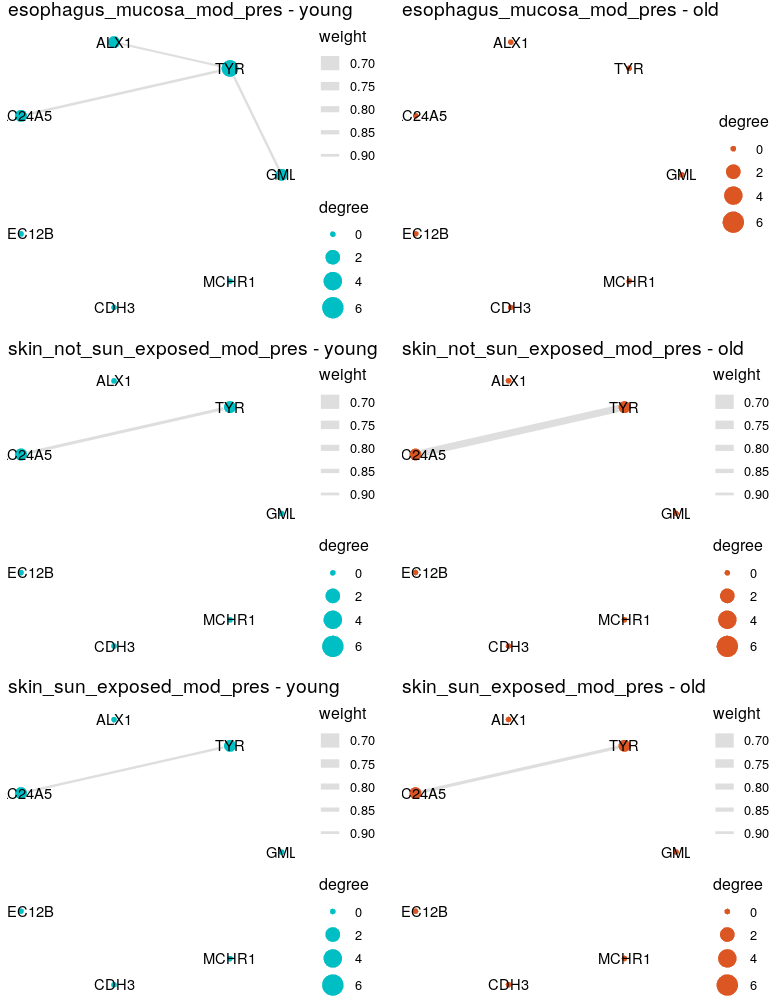
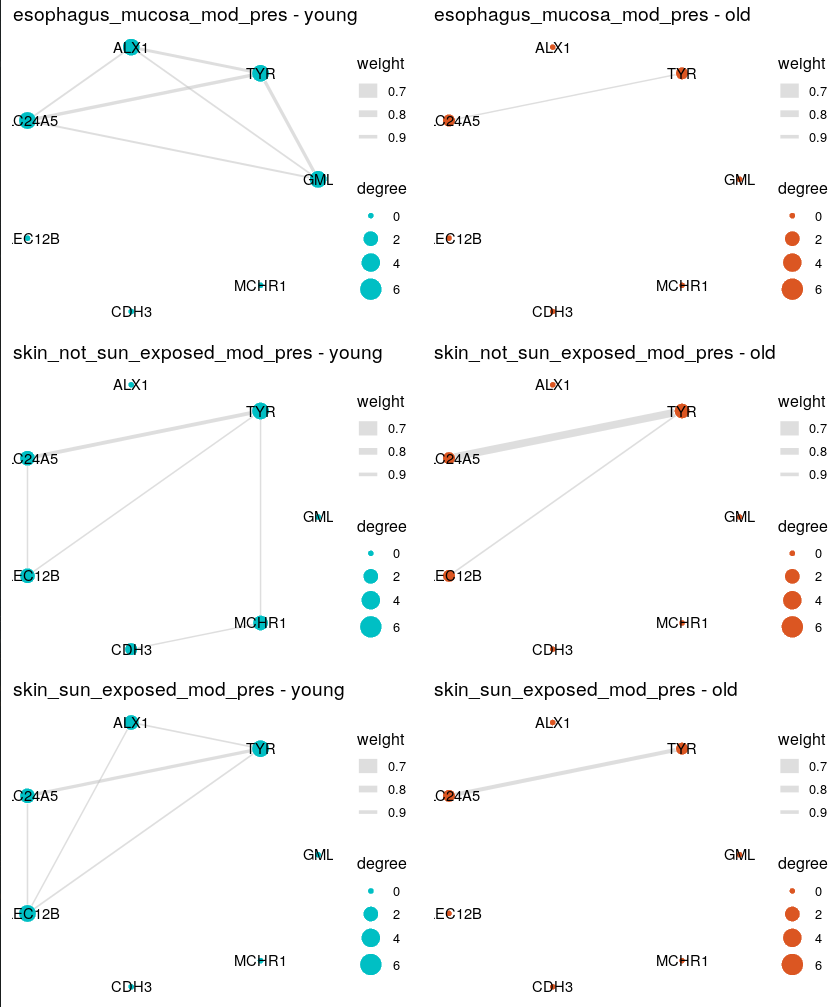
Petite sauvegarde avant modif chap 2 discussion

diff --git a/chapitre2-articles.tex b/chapitre2-articles.tex
@@ -281,7 +281,7 @@ Enfin, on a exploré le vieillissement et son phénomène de perturbation de la 
 
 \subsection{Les variation de co-expression dans l'intersection liée à l'inflammation}
 
-L'inflammation systémique chronique de faible intensité est une des marques connues du vieillissement \cite{Lopez-Otin2013, Franchini2006}. La complexité des mécanismes d'immunité et d'inflammation rend ce phénomène particulièrement difficile à étudier et les publications actuelles tendent donc à cibler peu d'acteurs (gène, protéine, miRNA, etc.) et à se concentrer sur des contextes très précis \cite{Franceschi2017}. Bien qu'apportant un niveau de preuve inférieur à toute validation expérimentale, les réseaux de co-expression de gènes permettent de comprendre bien plus d'acteurs. À titre d'exemple, on a souhaité ici détaillé le cas de l'intersection de gènes associés à l'inflammation lors du vieillissement.
+L'inflammation systémique chronique de faible intensité est une des marques connues du vieillissement \cite{Lopez-Otin2013, Franchini2006}. La complexité des mécanismes d'immunité et d'inflammation rend ce phénomène particulièrement difficile à étudier et les publications actuelles tendent donc à cibler peu d'acteurs en même temps (gène, protéine, miRNA, etc.) et à se concentrer sur des contextes très précis \cite{Franceschi2017}. Bien qu'apportant un niveau de preuve inférieur à toute validation expérimentale, les réseaux de co-expression de gènes permettent de comprendre bien plus d'acteurs. À titre d'exemple, on a souhaité ici détailler le cas de l'intersection de gènes associés à l'inflammation lors du vieillissement (Figure \ref{figure:revigo_resume_4_enrich}.D).
 
 \begin{figure}[p]
     \centering
@@ -295,71 +295,51 @@ Les variation de motif dans la co-expression sont bien souvent la première caus
 
 \subsection{Cas particulier : le vieillissement spécifique à la peau}
 
-Si le vieillissement partage des mécanismes et altérations communes à travers plusieurs tissus, il existe parallèlement des altération spécifiques à certains tissus. Bien que ne permettant pas l'enrichissement global de la compréhension du vieillissement, ces altérations locales nécessitent de s'y intéresser afin de prévenir et prendre en charge les pathologies qui s'y rattachent. La peau est un des organes dont l'intégrité est la plus susceptible d'être mise à mal par le vieillissement en raison de son exposition directe avec l'environnement extérieur. Le premier facteur de vieillissement extrinsèque est le photo-vieillissement dont les effets sont cumulatifs avec le temps \cite{Farage2008}. Il se caractérise majoritairement pas une exposition aux UVs (UVA et UVB) qui vont induire des détériorations des fibres de collagène et d'élastine dans la peau. À noter également, des altérations de la matrice extra-cellulaire entre l'épiderme et le derme qui sont les deux couches composant la peau \cite{Rogowski-Tylman2016}.
-
-Un intersection faite de la peau exposée au soleil, la peau non exposée au soleil, et la muqueuse œusophagienne fait état dans notre cas d'un tel type de photo-vieillissement. Elle est composée principalement d'enrichissements sur des fonctions physiologiques directement liées à la synthèse et régulation de mélanine comme exposé en Figure \ref{figure:revigo_resume_melanine}. Ce pigment synthétisé par les mélanocytes à partir d'une oxydation de la thyrosine joue un rôle majeur de lutte contre les dégâts provoqués par les UVs \cite{Bettley1965}. On retrouve d'ailleurs le gène responsable de cette transformation, TYR, dans le réseau de co-expression en Figure \ref{figure:graphs_intersection_melanine} comme hub gene (score de centralité). On constate une relation forte de celui-ci avec un autre gène, SLC24A5, qui code pour un échangeur de cations (sodium, potassium, calcium) de façon générale. C'est notamment à lui que se rattachent les enrichissements de type \textit{secondary metabolite biosynthetic process}. En effet, si son effet a été m
-
-Si des soupçons 
-
+Si le vieillissement partage des mécanismes et altérations communes à travers plusieurs tissus, il existe parallèlement des altération spécifiques à certains tissus. Bien que ne permettant pas l'enrichissement global de la compréhension du vieillissement, ces altérations locales nécessitent de s'y intéresser afin de prévenir et prendre en charge les pathologies qui s'y rattachent. La peau est un des organes dont l'intégrité est la plus susceptible d'être mise à mal par le vieillissement en raison de son exposition directe avec l'environnement extérieur. Le premier facteur de vieillissement extrinsèque est le photo-vieillissement dont les effets sont cumulatifs avec le temps \cite{Farage2008}. Il se caractérise majoritairement pas une exposition aux UVs (UVA et UVB) qui vont induire des détériorations des fibres de collagène et d'élastine dans la peau. À noter également, des altérations de la matrice extra-cellulaire entre l'épiderme et le derme qui sont les deux couches composant la peau \cite{Rogowski-Tylman2016}. 
 
 \begin{figure}[b]
     \centering
     \includegraphics[width=1\textwidth]{img/chap2/chap2_revigo_resume_enrich_skin.png}
-    \caption{.}
+    \caption{Résumé des enrichissements sur GO par carte proportionnelle de l'intersection peau exposée au soleil, peau non exposée au soleil, et muqueuse œsophagienne. Chaque ensemble de GO terme partageant une ontologie parente commune (selon un score de similarité) est groupé sous une même couleur.}
     \label{figure:revigo_resume_melanine}
 \end{figure}
+
+Un intersection faite de la peau exposée au soleil, la peau non exposée au soleil, et la muqueuse œusophagienne fait état dans notre cas d'un tel type de photo-vieillissement. Elle est composée principalement d'enrichissements sur des fonctions physiologiques directement liées à la synthèse et régulation de mélanine comme exposé en Figure \ref{figure:revigo_resume_melanine}. Ce pigment synthétisé par les mélanocytes à partir d'une oxydation de la thyrosine joue un rôle majeur de lutte contre les dégâts provoqués par les UVs \cite{Bettley1965}. On retrouve d'ailleurs le gène responsable de cette transformation, TYR, dans le réseau de co-expression en Figure \ref{figure:graphs_intersection_melanine} comme hub gene (score de centralité). On constate une relation forte de celui-ci avec un autre gène, SLC24A5, qui code pour un échangeur de cations (sodium, potassium, calcium) de façon générale. C'est notamment à lui que se rattachent les enrichissements de type \textit{secondary metabolite biosynthetic process}. Aucune confirmation de son rôle de régulateur partiel de la production de mélanine n'a été faite chez l'homme malgré sa mise en évidence chez la souris \cite{Zhang2019,Ginger2008}. Contrairement à la tyrosinase produite par TYR qui se trouve dans les mélanosomes, la protéine NCKX5 produite par SLC24A5 est localisée dans les mithochondries. À ces deux gènes s'ajoute une relation de chacun avec CLEC12B dans la peau. Ce gène appartient à la famille des récepteurs de lectine de type C qui jouent un rôle essentiel dans l'immunité et l'homéostasie. La fonction de CLEC12B elle-même reste cependant encore mal caractérisée malgré la détection d'un motif d'inhibition classique basé sur la tyrosine des immuno-récepteurs dans sa séquence capable de lier SHP-1/SHP-2 \cite{Tone2019}. Ces derniers sont notamment suspectés d'avoir un rôle dans la progression des mélanomes \cite{Zhang2013}. 
+
+La Figure \ref{figure:graphs_intersection_melanine} permet de constater que la relation TYR/SLC24A5 tend à augmenter avec l'âge dans la peau exposée ou non au soleil, avec une augmentation plus forte dans la peau non exposée. Ces résultats coïncident avec l'augmentation de la production de mélanine constatée chez la personne âgée pour compenser la diminution globale de la densité de mélanocytes \cite{Gilchrest1979}. À l'inverse, la co-expression de CLEC12B avec SLC24A5 et TYR tend à diminuer avec l'âge. L'ensemble des ces résultats réunis ainsi que la littérature nous porte donc à penser que SLC24A5 et CLEC12B pourraient avoir un rôle dans le mécanisme de compensation de mélanogénèse avec l'âge.
 
 \begin{figure}[p]
     \centering
     \includegraphics[width=1\textwidth]{img/chap2/chap2_graphs_intersection_melanine.png}
-    \caption{Réseaux de co-expression des gènes de l'intersection associée à la surproduction de mélanine lors du vieillissement entre les deux tranches d'âge. Le réseau est filtré à 0.95 de dissimilarité (sur une échelle de 0 à 1) pour des questions de lisibilité et 3 tissus sont présentés : muqueuse œusophagienne, peau non exposée au soleil, et peau exposée au soleil.}
+    \caption{Réseaux de co-expression des gènes de l'intersection associée à la surproduction de mélanine lors du vieillissement entre les deux tranches d'âge. Le réseau est filtré à 0.99 de dissimilarité (sur une échelle de 0 à 1) pour des questions de lisibilité et 3 tissus sont présentés : muqueuse œusophagienne, peau non exposée au soleil, et peau exposée au soleil.}
     \label{figure:graphs_intersection_melanine}
 \end{figure}
 
 
-% # Tissues :
-% # > esophagus_mucosa_mod_pres
-% # > skin_not_sun_exposed_mod_pres
-% # > skin_sun_exposed_mod_pres
-% # 0_0_0_0_1_0_0_0_0_0_1_0_1_0_0_0
-% # Nb genes : 7
+\section{Discussion}
 
-% |source |term_name                                               |
-% |:------|:-------------------------------------------------------|
-% |GO:BP  |melanin biosynthetic process                            |
-% |GO:BP  |melanin metabolic process                               |
-% |GO:BP  |secondary metabolite biosynthetic process               |
-% |GO:BP  |phenol-containing compound biosynthetic process         |
-% |GO:BP  |secondary metabolic process                             |
-% |GO:BP  |pigment biosynthetic process                            |
-% |GO:BP  |pigment metabolic process                               |
-% |GO:BP  |pigmentation                                            |
-% |GO:BP  |phenol-containing compound metabolic process            |
-% |GO:BP  |regulation of secondary metabolic process               |
-% |GO:BP  |regulation of melanin biosynthetic process              |
-% |GO:BP  |regulation of secondary metabolite biosynthetic process |
-% |GO:MF  |melanin-concentrating hormone receptor activity         |
-% |HPA    |retina; pigment epithelial cells[High]                  |
+Le vieillissement peut être vu comme une imbrication de multiples phénomènes qui découlent d'une dérégulation du fonctionnement physiologique ou d'une réponse à cette dérégulation. En prenant en compte le système dans sa quasi intégralité, les réseaux de co-expression permettent d'acquérir de nouvelles connaissances au delà d'acteurs transcriptomiques individuels. Les variations au cours du temps des relations de co-expression entre gènes sont alors les témoins d'autant de voies d'activations qui s'altèrent. Leur suivi et mise en contraste au travers de la co-expression différentielle est donc un moyen supplémentaire de comprendre le déroulé des altérations \cite{Sharan2006, Southworth2009}. En comparant ces dernières entre de multiples tissus, il est possible d'en déduire à les mécanismes communs au vieillissement, et à l'inverse ceux spécifique. Dans cette étude, on s'est donc attaché étudier ce vieillissement d'un point de vue multi-dimensionnel en comparant les réseaux issus de multiples tissus, et ce entre deux tranches d'âge extrêmes. 
 
+Ce faisant, on a pu dans un premier temps observer les marques du vieillissement \cite{Lopez-Otin2013} dans les diverses intersections détectées associée à l'âge par notre analyse de co-expression différentielle : perte d'homéostatie, instabilité génomique, inflammation, dérivés réactifs de l'oxygène, etc. (Table \ref{table:intersection_aging_global_phenomenons} et Figure \ref{figure:revigo_resume_4_enrich}).
+% On a cependant pu constater la disparité de présence de ces marques du vieillissement entre tous les organes. Une majorité de gènes ne varient ainsi pas significativement lors du vieillissement comme cela a pu être observé auparavant \cite{Avelar2019} (Figure \ref{figure:upset_intersection_genes_tissu_unpres_modpres}). 
+% La disparité observée dans leur répartition dans toutes les intersections tient notamment 
 
+Certains tissus cependant sont plus sujets à ces variations et coïncident le plus souvent avec les tissus ayant un fort taux de renouvellement \cite{Armanios2012, Barker2010, Leblond1956} (Table \ref{table:intersection_aging_global_phenomenons}) avec l'exception dans notre cas de la thyroïde. Malgré une évidence des modifications que subit le système endocrinien avec le vieillissement, l'impact de celui-ci sur la thyroïde reste peu documenté hors pathologies graves \cite{Faggiano2011Sep}. En effet, les altérations endocrines thyroïdiennes (hypo ou hyperthyroïdies) sont souvent associées à un vieillissement "naturel" de la personne \cite{Cooper2004Dec}. Pourtant, les indices d'un rôle de la thyroïde sur la longévité s'accumulent ces dernières années \cite{Garasto2017Jul,Arosio2020Sep}. Renforcer les connaissances sur les altérations de la fonction thyroïdienne chez la personne âgée semble donc une voie intéressante pour l'amélioration de la durée de vie chez l'homme.
+
+L'inflammation chronique de faible intensité est une caractéristique majeure du vieillissement qu'on nomme également en anglais "inflammaging" \cite{Franceschi2014Jun} dont la complexité limite encore les connaissances à son sujet \cite{Franceschi2017}. Ce phénomène du vieillissement assumé comme étant un précurseur de plusieurs autres phénomènes du vieillissement \cite{Lopez-Otin2013} s'est retrouvé ici plutôt exprimé dans le tissu adipeux, la peau non exposée au soleil, ainsi que la thyroïde. Le détail des enrichissements fonctionnel est venu préciser cette composante de l'inflammation comme une réponse à une réaction virale en raison des nombreux régulateurs d'interférons présents.
+
+% Une étude de l'intersection de gènes caractéristiques de l'inflammation chronique de faible intensité a 
 
 \#\#\#\#\#\#\#\#\#\#\#\#\# TRAVAIL EN COURS \#\#\#\#\#\#\#\#\#\#\#\#\#
 
+l'absence d
+
+
+Chaque organe subit le vieillissement de différentes manières. 
 
 % Pourquoi le muscle vieillit vite malgré son faible taux de renouvellement : https://www.ncbi.nlm.nih.gov/pmc/articles/PMC3874224/
-
-% À l'inverse, certains gènes dans les modules MP ou NP ne sont présent que dans leur tissu. Ceux-ci pouvant témoigner de fonctions physiologiques propres au vieillissement de ces tissus, ils ont également été enrichis module par module.
-
-% Les origines de la faible ou non préservation liées au vieillissement pouvant être variées, on a souhaité étudier les fonctions physiologiques contenues dans ces modules non préservés et peu préservés.
-
-% # Graphes de qques modules d'intérêt
-% Tests de diminution de co-expression 
-
-
-\section{Discussion}
-
 % 10.1371/journal.pcbi.1004220 p4 pour discuter la proximité des tissus
-% https://thyroidresearchjournal.biomedcentral.com/articles/10.1186/1756-6614-5-16 pour expliquer la faible connaissance du fonctionnement/effet de la thyroide dans le vieillissement malgré son affectation par masse de de phénomènes du vieillissement \ref{table:intersection_aging_global_phenomenons}
+
 % Explication potentielle du pourquoi une reaction virale alors que pas de virus : https://www.nature.com/articles/s41586-018-0784-9 + https://link.springer.com/chapter/10.1007/978-3-319-48344-3_13
 
 

diff --git a/conclusion.tex b/conclusion.tex
@@ -8,3 +8,6 @@ traitée comme un chapitre normal, sauf qu'elle n'est pas numérotée.
 
 % Publi utile pour les perspectives :
 % https://onlinelibrary.wiley.com/doi/abs/10.1111/gbb.12106
+
+
+Le vieillissement est un phénomène dont la complexité n'a d'égal que la multiplicité de ses manifestations. Tantôt origine, tantôt conséquence, les phénomènes de sa manifestations impactent de nombreux mécanismes cellulaire et moléculaires : sénescence et cellules souches, inflammation chronique de faible intensité, raccourcissement des télomères, etc. \cite{Lopez-Otin2013}. Pour distinguer de façon certaine chacun des altérations basales chez chaque individu, un nombre important d'échantillons est nécessaire. L'étude GTEx est à ce jour le plus gros regroupement de séquençage en terme d'individus/tissus non ciblé sur une pathologie. Sa réalisation permet d'étudier le vieillissement non plus dans ses manifestations les plus détaillées mais bien de rechercher les mécanismes communs à beaucoup des tissus composant le corps humain. Cependant
